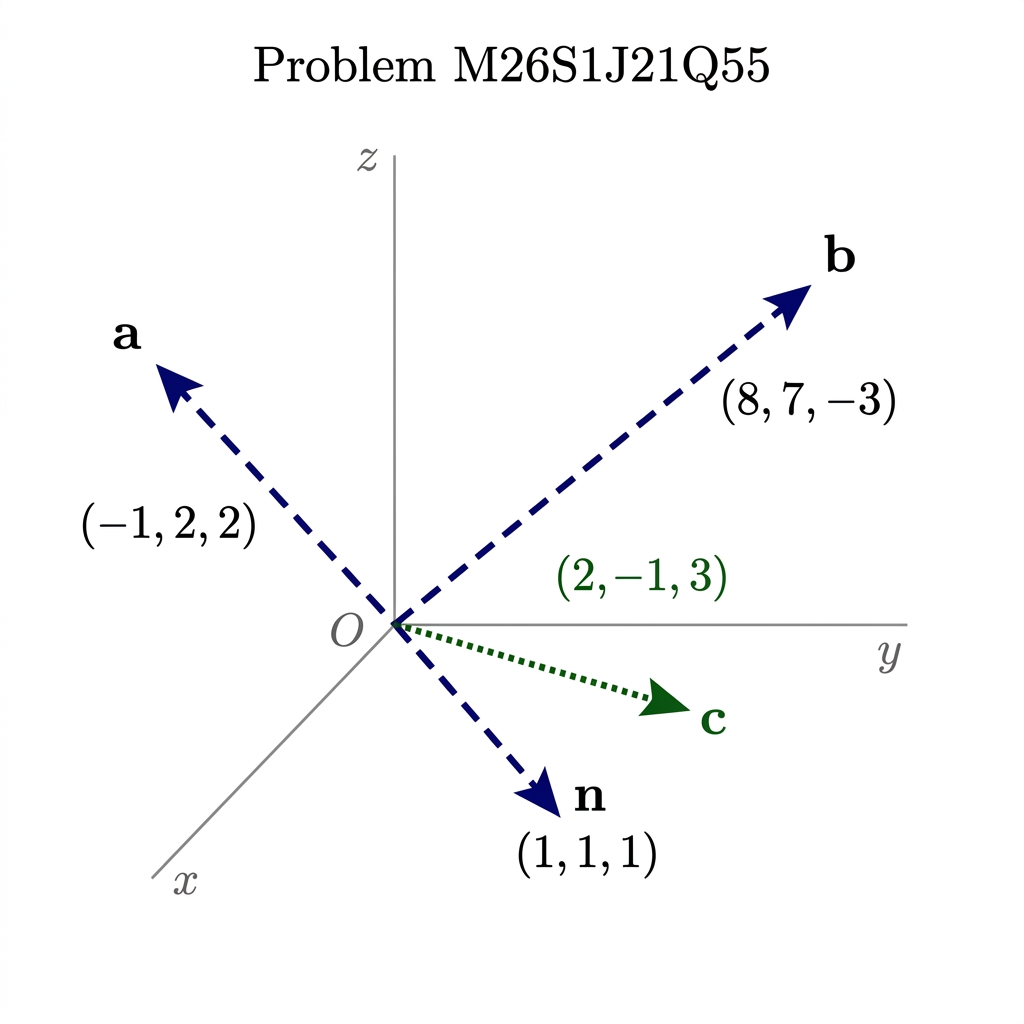
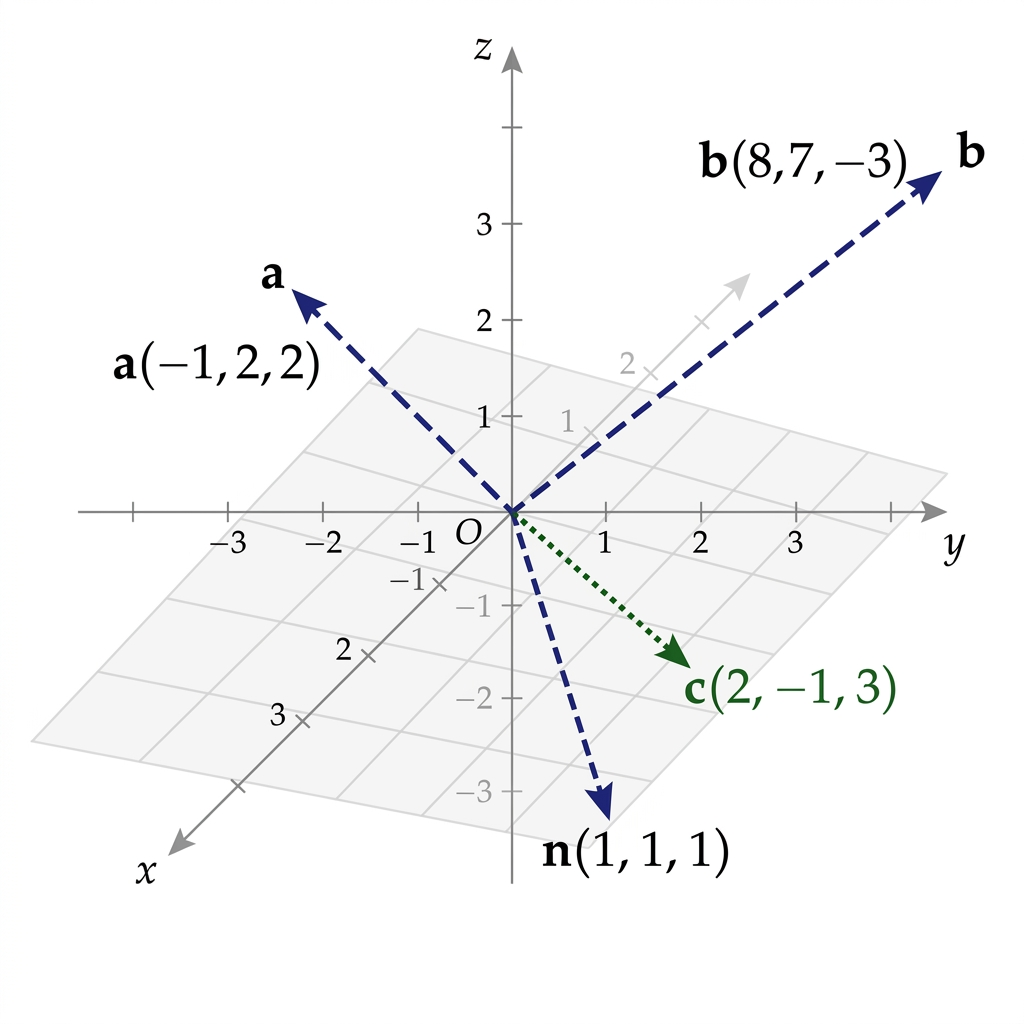
Add depth cues, negative-axis ticks, and proper Greek labels to figures
Regenerated all three figures with a strengthened prompt: oblique
projection axes now extend into negative space with tick marks, a faint
floor-plane grid gives real depth, and Greek letters (alpha/beta/gamma/
lambda) render as proper symbols instead of spelled-out Latin words.

Also fixes a real bug found by inspection: the previous prompt described
each entity's anchor/direction in the same sentence as its label, and
the image model sometimes echoed fragments of that instruction prose
onto the figure as if it were text to render. Fixed by separating the
literal on-image label from placement-only metadata, plus a closing
whitelist naming every string the model may render as text.

diff --git a/generate 3D vector figures/scripts/generate_figures.py b/generate 3D vector figures/scripts/generate_figures.py
@@ -41,6 +41,29 @@ ROLE_STYLE = {
     "computed_vector": {"color": "darkgreen", "line_style": "dotted"},
 }
 
+# Display-only substitution: fixture label text and param_name spell Greek
+# letters out in ASCII ("alpha", "lambda", ...) since that's plain-ASCII
+# data safe for the solver/validators. The image prompt is a pure
+# rendering concern, so translate to real Greek glyphs here rather than
+# touching the shared fixtures (which geometry_compiler's tests are
+# graded against verbatim). Longest names first so "gamma" doesn't get
+# clobbered by a shorter substring match.
+GREEK = {
+    "alpha": "α", "beta": "β", "gamma": "γ",
+    "lambda": "λ", "mu": "μ", "theta": "θ",
+}
+_GREEK_PATTERN = None
+
+
+def greekify(text: str) -> str:
+    import re
+
+    global _GREEK_PATTERN
+    if _GREEK_PATTERN is None:
+        names = sorted(GREEK, key=len, reverse=True)
+        _GREEK_PATTERN = re.compile(r"\b(" + "|".join(names) + r")\b", re.IGNORECASE)
+    return _GREEK_PATTERN.sub(lambda m: GREEK[m.group(1).lower()], text)
+
 
 def resolve_api_key() -> str:
     try:
@@ -67,32 +90,43 @@ def fmt_vec(v: dict) -> str:
 
 
 def describe_entity(e: dict) -> str:
+    """Returns (description_text, literal_on_image_label). The description
+    is instructions FOR the model (positions, colors, anchor rules) --
+    never meant to appear on the image itself. The label is the one and
+    only string that should actually be rendered as text for this entity.
+    Keeping these visibly separate (rather than one flowing paragraph)
+    is a deliberate fix: an earlier version wrote both together and the
+    model sometimes echoed fragments of the instruction prose (anchor
+    points, direction-vector tuples, even words like "given") onto the
+    image as if they were part of the label.
+    """
     style = ROLE_STYLE[e["visual_role"]]
-    label = e["label"]
+    label_text = greekify(e["label"]["text"])
     lines = [
-        f"- id `{e['id']}` ({e['kind']}, status={e['status']}, role={e['visual_role']})",
-        f"  color: {style['color']}, line style: {style['line_style']}",
-        f"  label: \"{label['text']}\" anchored at the {label['anchor']} edge of its reference point/line "
-        f"(the label text must not overlap the point or line it names)",
+        f"- id `{e['id']}` ({e['kind']}, role={e['visual_role']}): "
+        f"color {style['color']}, line style {style['line_style']}.",
+        f"  ON-IMAGE TEXT FOR THIS ENTITY (verbatim, exactly this and nothing "
+        f"more): \"{label_text}\" -- place it at the {e['label']['anchor']} "
+        "edge of the entity so it never overlaps the point/line/arrow itself.",
     ]
     if e["kind"] == "point":
-        lines.append(f"  coordinates: {fmt_vec(e['coordinates'])}")
+        lines.append(f"  Plot at coordinates {fmt_vec(e['coordinates'])} (not written on the image; for your placement only).")
     elif e["kind"] == "parametric_line":
         lines.append(
-            f"  passes through anchor point {fmt_vec(e['anchor'])} with direction vector "
-            f"{fmt_vec(e['direction'])} (parameter name: {e.get('param_name') or 't'})"
+            f"  Passes through {fmt_vec(e['anchor'])} with direction {fmt_vec(e['direction'])} "
+            "(for your placement only -- these numbers are NOT written on the image anywhere)."
         )
         lines.append(
-            "  draw this as a full straight line (extending a bit past both the anchor "
-            "point and any other labelled point on it), not just a segment between two dots"
+            "  Draw as a full straight line, extending a bit past both its anchor point and "
+            "any other labelled point that sits on it, not just a segment between two dots."
         )
     elif e["kind"] == "vector":
         lines.append(
-            f"  components {fmt_vec(e['components'])}, drawn as an arrow from the origin "
-            "(or from wherever makes the figure clearest, but its direction and length must "
-            "match these exact components)"
+            f"  Components {fmt_vec(e['components'])} (for your placement only -- not written "
+            "on the image), drawn as an arrow from the origin whose direction and length match "
+            "these exact components."
         )
-    return "\n".join(lines)
+    return "\n".join(lines), label_text
 
 
 def describe_relation(r: dict, entities_by_id: dict) -> str:
@@ -132,25 +166,48 @@ def describe_relation(r: dict, entities_by_id: dict) -> str:
 
 def build_prompt(scene_graph: dict) -> str:
     entities_by_id = {e["id"]: e for e in scene_graph["entities"]}
-    entity_lines = "\n".join(describe_entity(e) for e in scene_graph["entities"])
+    described = [describe_entity(e) for e in scene_graph["entities"]]
+    entity_lines = "\n".join(text for text, _label in described)
+    on_image_labels = [label for _text, label in described]
     relation_lines = "\n".join(
         describe_relation(r, entities_by_id) for r in scene_graph.get("relations", [])
     ) or "(no incidence relations for this problem -- it is a pure algebraic system; do not invent any)"
 
-    return f"""Create a clean, textbook-style 2D diagram depicting a 3D vector-geometry
-figure (problem {scene_graph['problem_id']}), the way it would appear as a
-hand-drawn illustration in a math textbook -- NOT a photorealistic 3D render.
+    whitelist = ", ".join(f'"{lbl}"' for lbl in on_image_labels)
 
-Use an oblique 3D coordinate system: draw x, y, z axes as three lines meeting
-at a labelled origin, with the axes clearly but unobtrusively visible in the
-background (thin, gray, behind the geometric entities).
+    return f"""Create a textbook-style 2D diagram depicting a 3D vector-geometry
+figure (problem {scene_graph['problem_id']}) that genuinely reads as three-
+dimensional space, not a flat schematic -- the way a well-drawn textbook
+3D figure uses perspective and depth cues, while still being a clean line
+diagram, NOT a photorealistic render.
 
-Every coordinate below has already been computed and verified exactly by a
-symbolic solver -- do not alter, round, or re-derive any of them. Plot the
-entities using these EXACT values and this EXACT visual encoding. This is
-the whole point of the figure: a student should be able to read off which
-elements are given data and which is the answer being solved for, at a
-glance, without reading the original word problem.
+COORDINATE SYSTEM:
+Use an oblique 3D projection: x, y, z axes as three lines meeting at a
+labelled origin O. EACH axis must extend in BOTH directions from the
+origin (positive AND negative) -- do not draw axes as one-way rays. Put
+small, evenly-spaced tick marks along all three axes on both sides of the
+origin (e.g. every 1-2 units), so the negative regions of the coordinate
+system are visibly present, not just implied. Axes are thin and gray,
+clearly behind the geometric entities, with light tick labels (a few
+integers is enough -- do not label every tick).
+
+DEPTH:
+Make the space itself read as three-dimensional: use consistent
+foreshortening (the axis coming toward the viewer drawn shorter/more
+oblique than the other two), and a subtle, light gray floor-plane grid
+(aligned to two of the three axes) purely as a depth cue -- faint enough
+that it never competes with the entities themselves. Lines/vectors that
+extend further from the viewer along the depth axis may be drawn very
+slightly lighter to reinforce depth, but every entity must remain
+clearly legible and true to its exact coordinates -- depth cues are
+support, not the subject.
+
+Every coordinate below has already been computed and verified exactly by
+a symbolic solver -- do not alter, round, or re-derive any of them. Plot
+the entities using these EXACT values and this EXACT visual encoding.
+This is the whole point of the figure: a student should be able to read
+off which elements are given data and which is the answer being solved
+for, at a glance, without reading the original word problem.
 
 ENTITIES:
 {entity_lines}
@@ -166,13 +223,28 @@ polished):
    in 3D-on-2D can look like the same line continuing).
 2. Every label needs an explicit anchor edge (as specified per entity above)
    -- position each label so it never overlaps the point, line, or vector it
-   names.
-3. Labels and all mathematical notation should be a normal, legible text
+   names, and never writes raw coordinate tuples or parameter names onto
+   the figure as if they were the label.
+3. Greek letters (α, β, γ, λ, ...) must render as proper mathematical
+   symbols, never spelled out as Latin words.
+4. Labels and all mathematical notation should be a normal, legible text
    size matching clean textbook typography -- not tiny, not oversized.
-4. Do not add any point, line, vector, plane, or grid that is not listed
-   above. No decorative elements, no shading, no photorealistic lighting.
-5. Keep the background plain/white so the figure reads clearly as a
+5. Do not add any point, line, vector, or plane that is not listed above.
+   The only permitted "extra" elements are the axis tick marks and the
+   single faint depth-cue floor grid described above -- no other
+   decoration, no photorealistic lighting or texture.
+6. Keep the background plain/white so the figure reads clearly as a
    reference diagram, not an illustration.
+7. TEXT WHITELIST -- this is the single most important rule. The ONLY
+   text allowed anywhere on the image is: the axis names x, y, z; the
+   origin mark O; small numeral tick labels on the axes; and these exact
+   strings, one per entity, nothing else: {whitelist}.
+   Do NOT write any coordinate tuple, anchor point, direction vector, or
+   parameter name as its own separate text anywhere on the image, even
+   near the entity it describes -- that numeric information is there so
+   you know WHERE to draw and how to size arrows, not WHAT to write. If
+   it is not one of the exact strings listed above (or an axis name /
+   tick numeral), it must not appear as text on the image.
 
 Render as a single static image, roughly square, high contrast, suitable
 for direct inclusion in a printed math worksheet."""

diff --git a/generate 3D vector figures/README.md b/generate 3D vector figures/README.md
@@ -31,12 +31,28 @@ Needs a Gemini API key -- see the project-root `.env` / `.env.example`
 and `problem_parser/README.md`'s "Set your API key" section (same
 resolution order is used here).
 
-## Known limitation
+## Known limitations
 
 An image model does not do real geometric projection, so it can still
-misplace things a true renderer wouldn't -- e.g. the first pass on
-`M26S2J21Q3` (two skew lines) planted both intersection points at the
-2D projection's false crossing point. The prompt now explicitly asks for
-a depth-break cue to avoid that, but the model is still not guaranteed
-to get spatial relationships exactly right the way a coordinate-driven
-renderer would.
+misplace things a true renderer wouldn't:
+
+- **Skew lines can look like they cross.** The first pass on `M26S2J21Q3`
+  (two skew lines) planted both intersection points at the 2D
+  projection's false crossing point. Fixed by explicitly asking for a
+  depth-break cue and forbidding C/D from sitting at the apparent
+  crossing.
+- **Prompt text can leak onto the image as if it were a label.** An
+  earlier version described each entity's anchor point / direction
+  vector in the same flowing sentence as its label, and the model
+  sometimes echoed fragments of that instruction prose (raw coordinate
+  tuples, even words like "given") onto the figure as extra text. Fixed
+  by cleanly separating, per entity, the literal on-image label (quoted,
+  verbatim) from everything else (which is explicitly marked "for your
+  placement only -- not written on the image"), plus a closing
+  whitelist rule naming every string the model is allowed to render.
+
+Neither fix makes the model an exact geometric renderer -- it's still
+not guaranteed to get spatial relationships exactly right the way a
+coordinate-driven renderer (e.g. generated TikZ) would. These are
+mitigations for specific failure modes actually observed, not a
+guarantee against new ones.
